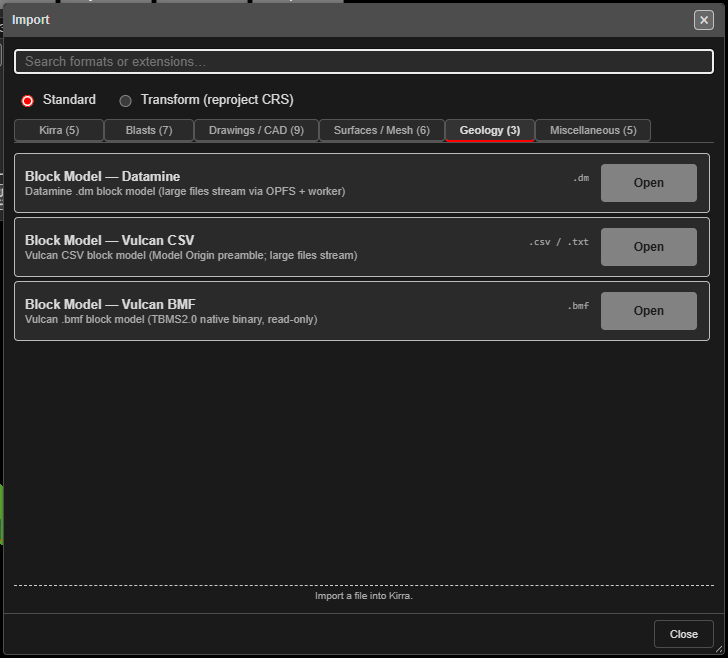
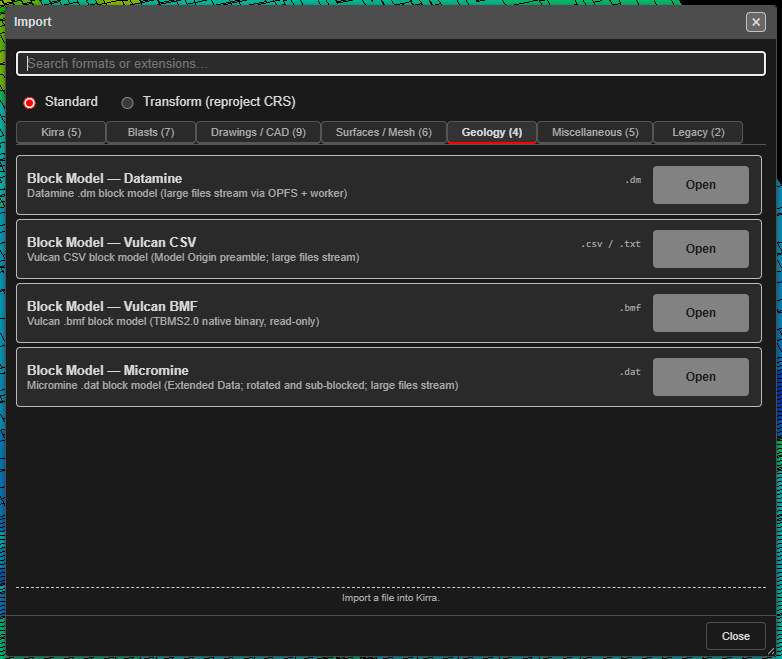
Docs: Block models - import, Load Block Model dialog, export and solids
New:
- Geology - Block Models section: three pages under block-models/
  - Importing Block Models: formats, Import dialog Geology tab, drag and
    drop with the CSV type chooser, large-file attribute selection
  - The Load Block Model Dialog: Display and Limits tabs, bench slices,
    footer buttons
  - Export a Section and Build Solids: CSV section export, one closed
    solid per class
- 9 new screenshots from the STGM sample coloured by DENSITY

Fixes:
- Supported formats: Micromine block model row; Vulcan CSV export noted
- Interface tour: Micromine on the Geology tab; Geology screenshot updated
- Analyse toolbar: block model screenshot placeholders filled, linked

Changed region(s): [[0.0, 0.0, 1.0, 1.0], [0.4231, 0.8815, 0.5742, 0.9422]]

diff --git a/block-models/load-block-model-dialog.md b/block-models/load-block-model-dialog.md
@@ -1,0 +1,87 @@
+# The Load Block Model Dialog
+
+The **Load Block Model** dialog controls how a block model is drawn: which attribute
+colours it, whether you see points or solid blocks, and which part of the model is
+shown. Every change applies straight away, so you can adjust it while watching the
+view. Block models are drawn in the 3D view, and in plan in the 2D view.
+
+The dialog opens when a model is imported. To open it again, click **Adjust Block Model
+Loaded** on the [Analyse toolbar](../analysis/analyse-toolbar.md#adjust-block-model-loaded).
+
+---
+
+## Display tab
+
+![Load Block Model — Display tab, coloured by DENSITY](../screenshots/BlockModelLoadDialog-Display.png)
+
+| Setting | What it does |
+|---|---|
+| **Variable (colour)** | The attribute that colours the blocks, for example DENSITY, FE or STRAT. |
+| **Mode** | **Centroids (points)** draws a point at each block centre: fast for a first look. **Blocks (solid)** draws every block at its true size, sub-blocks included. |
+| **Block style** | For **Blocks (solid)**: **Wire & Fill** (solid with black outlines), **Fill only**, or **Wire only** (outlines in the block colour). |
+| **Gradient** | The colour ramp for a numeric attribute: Turbo, Viridis, Parula, Cividis, Terrain or Spectrum (default). |
+| **Colour by** | **Gradient (above)** uses the ramp. **Schema (below)** uses a saved colour schema — your site's standard colours for each rock type or grade range. |
+| **Schema** | The schema to colour by. Schemas are made in **Adjust Block Model Schema Colour** — see the [Analyse toolbar](../analysis/analyse-toolbar.md#adjust-block-model-schema-colour). |
+| **Point size (px)** | Point size in **Centroids (points)** mode. |
+| **Transparency** | 1 is opaque. Lower values let you see into the model. |
+| **Bench slice** | Show only the blocks in one horizontal slice. |
+| **Bench RL** / **Bench thickness (m)** | The centre elevation and thickness of the slice. |
+| **Hover datatip** | When ticked, hovering over a block in the 3D view lists its attribute values. |
+| **Render cap (cells)** | The most blocks drawn at once, to protect the graphics card. If the count is capped the note at the bottom says so — raise the cap or tighten the filters. |
+
+The note at the bottom of the dialog counts the blocks being drawn, for example
+*Showing 206,369 of 206,369 cells*.
+
+### Bench slices
+
+A bench slice shows the geology at one blasting level. Set **Bench RL** to the bench
+elevation and **Bench thickness (m)** to the bench height.
+
+![A 4 m bench slice of the same model, coloured by DENSITY](../screenshots/BlockModelBenchSlice-Density.png)
+
+---
+
+## Limits tab
+
+![Load Block Model — Limits tab](../screenshots/BlockModelLoadDialog-Limits.png)
+
+Limits hide blocks without changing the model. Clear a limit and the blocks come back.
+
+### Cut-offs and classes
+
+| Setting | What it does |
+|---|---|
+| **Cut-off: ignore below** / **Cut-off: ignore above** | For a numeric attribute, hide blocks below or above a value. Leave a box empty for no limit. The hint shows the attribute's range. |
+| **Categories** | For a category attribute such as STRAT, tick the categories to show. |
+| **Discrete intervals** | For a whole-number attribute such as a stratigraphy code, tick the values to show. **Select all** ticks them all. |
+
+### Limit display to
+
+| Option | Shows |
+|---|---|
+| **None** | The whole model. |
+| **Box range (min/max X Y Z)** | Blocks inside the box set by **Limit min X** to **Limit max Z**. |
+| **Below a surface** | Blocks below the surface chosen in **Limit surface**, for example below the topography. |
+| **Above a surface** | Blocks above the chosen surface. |
+| **Inside a closed solid** | Blocks inside a closed solid, for example a blast solid or a pit shell. |
+
+**Limit surface** lists the loaded surfaces. For **Inside a closed solid** it lists
+closed solids only; if none is loaded, Kirra says so and leaves the limit off. A solid
+made while the dialog is open appears in the list straight away. To make a blast solid,
+see [Extrude KAD to Solid](../kad/advanced-tools.md#extrude-kad-to-solid).
+
+---
+
+## Footer buttons
+
+| Button | What it does |
+|---|---|
+| **Solids** | Builds closed solids from the blocks currently shown — see [Export a Section and Build Solids](export-and-solids.md#build-solids). |
+| **Export** | Saves the blocks currently shown as a block model CSV — see [Export a Section and Build Solids](export-and-solids.md#export-a-section-as-csv). |
+| **Remove** | Removes the block model from Kirra and frees its memory. |
+| **Done** | Closes the dialog. The model stays loaded, drawn as you left it. |
+
+---
+
+See also: [Importing Block Models](importing-block-models.md) ·
+[Export a Section and Build Solids](export-and-solids.md)

diff --git a/block-models/importing-block-models.md b/block-models/importing-block-models.md
@@ -1,0 +1,90 @@
+# Importing Block Models
+
+A block model is a 3D grid of blocks, each carrying the geology at that location: rock
+type, stratigraphy, grades, density, hardness and so on. Kirra loads block models from
+the major mine-planning packages so you can see the geology you are blasting into, in
+both the 2D and 3D views.
+
+![A Vulcan block model coloured by DENSITY, sub-blocked along the geological contacts](../screenshots/BlockModel3D-Density.png)
+
+---
+
+## Supported formats
+
+| Format | Extensions | Notes |
+|---|---|---|
+| **Block Model — Datamine** | `.dm` | Datamine block model. Large files are streamed. |
+| **Block Model — Vulcan CSV** | `.csv` / `.txt` | Vulcan CSV export, with its **Model Origin / Cell Sizes / Number of Cells** preamble. Large files are streamed. |
+| **Block Model — Vulcan BMF** | `.bmf` | Vulcan's native block model, regularised or sub-blocked. Read only. |
+| **Block Model — Micromine** | `.dat` | Micromine Extended Data block model, including rotated and sub-blocked models. Large files are streamed. |
+
+Sub-blocked models load with every sub-block at its own size. Rotated models (Vulcan
+bearing, Micromine rotation) draw their blocks turned to match.
+
+---
+
+## How to import
+
+**From the Import dialog**
+
+1. Open the **Import** dialog and choose the **Geology** tab.
+2. Click **Open** on the row for your format and pick the file.
+
+![Import dialog — Geology tab](../screenshots/filemanager-geology.png)
+
+**By drag and drop**
+
+Drop the file onto the canvas. `.dm`, `.bmf` and `.dat` files are recognised by their
+content. A `.csv` or `.txt` file could hold blast holes, drawing geometry or a block
+model, so Kirra always asks:
+
+![The Unrecognised file format dialog — click Block for a Vulcan block model CSV](../screenshots/UnrecognisedCSVBlockChoice.png)
+
+Click **Block** for a Vulcan block model CSV.
+
+---
+
+## Large models: choose what to load
+
+Block models are often hundreds of megabytes. For a file larger than about 25 MB,
+Kirra asks what to load before reading it:
+
+![Load Block Model — select attributes](../screenshots/BlockModelSelectAttributesDialog.png)
+
+| Setting | What it does |
+|---|---|
+| **Block Model** | The file, with an estimate of its cell count and size. |
+| **Empty cells — Ignore where … equals …** | Cells whose chosen attribute equals the value are not loaded at all, for example STRAT = −99 or FE = 0. The memory saving is in proportion to the cells dropped. |
+| **Attributes** | Tick only the attributes you need. **All Attributes** ticks them all. Each block's position and size always load. |
+| **Max cells (0 = all)** | Loads only the first N cells. Useful for a quick look at a very large model. |
+| **Memory** | The estimated memory the selection needs. It turns red, with *Exceeds free heap*, when the selection will not fit — untick attributes or set a cell cap. |
+
+Click **Load**. The model is decoded in the background with a progress bar.
+
+---
+
+## After the import
+
+- The model appears in the **Data Explorer** under **Geology**, showing its cell
+  count, attribute count and the attribute it is coloured by. The eye icon shows and
+  hides it.
+- The **Load Block Model** dialog opens so you can choose how it is drawn — see
+  [The Load Block Model Dialog](load-block-model-dialog.md).
+- Models of more than a million blocks open on a single bench slice so the import
+  stays quick. Untick **Bench slice** to see the whole model.
+
+---
+
+## Troubleshooting
+
+| Symptom | Cause | Fix |
+|---|---|---|
+| *Exceeds free heap* in the select dialog | The ticked attributes will not fit in browser memory | Untick attributes, use **Ignore where**, or set **Max cells** |
+| A dropped `.dat` file is offered as a Surpac string | The file is not a Micromine Extended Data file | Check it is a block model export, not a string file |
+| *Block Model Import Failed* | The file is damaged, or is a variant Kirra does not read yet | Send the error text to support with a description of where the file came from |
+
+---
+
+See also: [The Load Block Model Dialog](load-block-model-dialog.md) ·
+[Export a Section and Build Solids](export-and-solids.md) ·
+[Supported File Formats](../reference/supported-formats.md)

diff --git a/block-models/export-and-solids.md b/block-models/export-and-solids.md
@@ -1,0 +1,88 @@
+# Export a Section and Build Solids
+
+Once a block model is limited to the part you care about — a blast, a bench, the blocks
+inside a design solid — you can take that part out of Kirra in two ways:
+
+- **Export** saves the blocks as a block model CSV.
+- **Solids** turns them into closed solids, one per rock type or grade class.
+
+Both buttons are in the footer of the [Load Block Model dialog](load-block-model-dialog.md),
+and both use exactly the blocks the dialog is showing.
+
+---
+
+## Which blocks are used
+
+Both buttons use the blocks that pass everything on the **Limits** tab and the
+**Bench slice** on the **Display** tab: cut-offs, ticked categories or values, and the
+**Limit display to** box, surface or solid.
+
+The **Render cap (cells)** is not a filter. It only limits how many blocks are drawn,
+so a capped display still exports, or builds solids from, every block that passes.
+
+---
+
+## Export a section as CSV
+
+1. Set the limits so the dialog shows the blocks you want.
+2. Click **Export**.
+3. Choose where to save the file.
+
+The file is a Vulcan-style block model CSV, which Kirra reads straight back (see
+[Importing Block Models](importing-block-models.md)). It has no `IJK` column unless the
+original model had one.
+
+| Detail | Behaviour |
+|---|---|
+| File name | The model's name, with `_section` added when the model is limited, for example `STGM_section.csv`. |
+| Header | The original model's origin, cell sizes and number of cells, so each block keeps its place in the parent grid. |
+| Columns | Block centre (XC, YC, ZC), block size (XINC, YINC, ZINC), then every loaded attribute. |
+| Categories | Written as their names, for example `BIF`, not as codes. |
+| Empty values | Written as empty fields. |
+| Rotated models | CSV has no field for rotation. Block centres stay exact, but the blocks draw unrotated when the file is loaded again. Kirra tells you when this applies. |
+
+---
+
+## Build solids
+
+**Solids** builds closed solids from the shown blocks. What you get depends on the
+**Variable (colour)** on the **Display** tab:
+
+| Attribute | Result |
+|---|---|
+| A category, for example STRAT | One solid per category |
+| A whole-number code, for example a stratigraphy number | One solid per value |
+| A continuous value, for example DENSITY or FE | One solid of all the blocks shown — for example, set **Cut-off: ignore below** to 58 on FE for an ore shell |
+
+1. Choose the **Variable (colour)** and set the limits.
+2. Click **Solids**. Kirra says how many solids it will build and from how many blocks:
+
+   ![Block Model Solids confirmation](../screenshots/BlockModelSolidsConfirm.png)
+
+3. Click **Build**.
+
+The solids are added to **Surfaces** on a layer named **Block Model Solids**, each in the
+colour its blocks are drawn in. They are saved with the project like any other surface,
+and one **Undo** removes them all.
+
+### About the solids
+
+- **Closed.** Each solid is watertight: it reads as **Closed** in its properties, shows
+  its volume, and can be used as an **Inside a closed solid** limit.
+- **Stepped.** The solids follow the block edges exactly. They are not smoothed.
+- **Exact volume.** A solid's volume equals the total volume of its blocks, sub-blocks
+  included.
+- **Shared edges.** Where two blocks of the same class touch only along an edge, that
+  edge belongs to four faces rather than two. Mesh checks report these as
+  non-manifold edges; the solid is still closed.
+- **Rotated models** give rotated solids that match the drawn blocks.
+- **Very large selections** are built on a coarser grid so they fit in memory. Kirra
+  tells you when this happens and the grid size it used; limit the model further for
+  exact solids.
+- More than 256 classes is refused. Untick categories, or limit the model first.
+
+---
+
+See also: [Importing Block Models](importing-block-models.md) ·
+[The Load Block Model Dialog](load-block-model-dialog.md) ·
+[Trimesh Boolean & Solid Boolean](../surfaces/boolean-csg.md)

diff --git a/analysis/analyse-toolbar.md b/analysis/analyse-toolbar.md
@@ -210,7 +210,9 @@ See [Time Window Dialog](time-window.md) for the full per-tab reference.
 
 Adjusts the display of the geological **block model** already loaded into the project — the gridded model of ore/waste and rock attributes used to inform blast design and analysis. Block models are loaded through the **Import** dialog (**Geology** tab) or by dropping the file on the canvas; this button does not load one, and tells you if none is loaded.
 
-> *[SCREENSHOT NEEDED: Load Block Model dialog]*
+![Load Block Model — Display tab](../screenshots/BlockModelLoadDialog-Display.png)
+
+Full reference: [The Load Block Model Dialog](../block-models/load-block-model-dialog.md).
 
 ### How to use
 
@@ -218,6 +220,7 @@ Adjusts the display of the geological **block model** already loaded into the pr
 2. On the **Display** tab, choose the **Variable (colour)**, **Mode** (**Centroids (points)** or **Blocks (solid)**), **Block style**, **Gradient** or schema colouring (**Colour by**), **Point size (px)**, **Transparency**, an optional **Bench slice** (RL and thickness), cut-offs, and the **Hover datatip**
 3. On the **Limits** tab, optionally **Limit display to** a box range, above or below a surface, or inside a closed solid
 4. Changes apply live — the dialog shows how many cells are displayed out of the total. Click **Done** to close
+5. **Solids** builds closed solids from the shown blocks, and **Export** saves them as a block model CSV — see [Export a Section and Build Solids](../block-models/export-and-solids.md). **Remove** unloads the model
 
 ---
 
@@ -225,7 +228,7 @@ Adjusts the display of the geological **block model** already loaded into the pr
 
 Manages named colour **schemas** — site or project colour standards for block-model attributes. A schema holds one colour definition per attribute (rock type, grade, domain, etc.).
 
-> *[SCREENSHOT NEEDED: Block Model Schema Colours dialog]*
+![Block Model Schema Colours dialog](../screenshots/BlockModelSchemaColoursDialog.png)
 
 ### How to use
 

diff --git a/getting-started/interface-tour.md b/getting-started/interface-tour.md
@@ -93,7 +93,7 @@ The dialog is tabbed by file family. Each tab shows how many formats it holds, e
 | **Blasts** | Custom CSV, CBLAST, Orica ShotPlus, Davey BPD, DetNet ViewShot, DetNet DigiShot / ParVS3, Paradigm Terra |
 | **Drawings / CAD** | Geometry CSV, DXF, DWG (experimental), Vulcan ARCH_D, Vulcan Design Database, Surpac, Micromine STR, Deswik DUF, 12d Archive |
 | **Surfaces / Mesh** | GeoTIFF / Image, OBJ / GLTF, Point Cloud, LAS Point Cloud, Vulcan .00t Triangulation, Datamine Surface |
-| **Geology** | Block Model — Datamine, Block Model — Vulcan CSV, Block Model — Vulcan BMF |
+| **Geology** | Block Model — Datamine, Block Model — Vulcan CSV, Block Model — Vulcan BMF, Block Model — Micromine |
 | **Miscellaneous** | Borehole Telemetry, Epiroc Surface Manager, Wenco NAV, KML / KMZ, ESRI Shapefile |
 | **Legacy** | Datavis DBS, ShotPlan 3 |
 
@@ -168,6 +168,9 @@ The dialog is tabbed by file family. Each tab shows how many formats it holds, e
 | **Block Model — Datamine** | `.dm` | Datamine block model. Large files are streamed |
 | **Block Model — Vulcan CSV** | `.csv` / `.txt` | Vulcan CSV block model. Large files are streamed |
 | **Block Model — Vulcan BMF** | `.bmf` | Vulcan `.bmf` block model (read only) |
+| **Block Model — Micromine** | `.dat` | Micromine block model, including rotated and sub-blocked models. Large files are streamed |
+
+See [Importing Block Models](../block-models/importing-block-models.md).
 
 ### Miscellaneous tab
 

diff --git a/reference/supported-formats.md b/reference/supported-formats.md
@@ -165,8 +165,14 @@ See: [Electronic Timing Constructs](../blast-design/electronic-timing-constructs
 | Format | Extensions | Import | Export | Notes |
 |---|---|:---:|:---:|---|
 | Datamine block model | `.dm` | Yes | — | Large files are streamed. Export shows as **Coming soon**. |
-| Vulcan CSV block model | `.csv`, `.txt` | Yes | — | Vulcan CSV with its Model Origin preamble. Large files are streamed. |
-| Vulcan BMF block model | `.bmf` | Yes (read-only) | — | Vulcan native block model. |
+| Vulcan CSV block model | `.csv`, `.txt` | Yes | Yes | Vulcan CSV with its Model Origin preamble. Large files are streamed. Exported from the Load Block Model dialog — see below. |
+| Vulcan BMF block model | `.bmf` | Yes (read-only) | — | Vulcan native block model, regularised or sub-blocked. |
+| Micromine block model | `.dat` | Yes | — | Micromine Extended Data block model, including rotated and sub-blocked models. Large files are streamed. |
+
+Any loaded block model — whatever its source format — can be saved as a Vulcan CSV with
+the **Export** button in the Load Block Model dialog, either whole or limited to a section.
+The Export dialog's **Geology** tab still shows **Coming soon**. See
+[Export a Section and Build Solids](../block-models/export-and-solids.md).
 
 ---
 

diff --git a/index.md b/index.md
@@ -77,12 +77,18 @@ Use this block to judge whether the docs may be ahead of or behind your installe
 - [Compare Surfaces](surfaces/compare-surfaces.md) — design vs survey deviation heat map
 - [Surface Contours](surfaces/contours.md)
 
+### Geology — Block Models
+- [Importing Block Models](block-models/importing-block-models.md) — Datamine, Vulcan CSV and BMF, Micromine *(new)*
+- [The Load Block Model Dialog](block-models/load-block-model-dialog.md) — colour, bench slices, cut-offs and limits *(new)*
+- [Export a Section and Build Solids](block-models/export-and-solids.md) — CSV sections and one closed solid per class *(new)*
+
 ### Importing Data
 - [CSV Formats](importing/csv-formats.md)
 - [DXF Import](importing/dxf.md)
 - [Surpac DTM / STR](importing/surpac-dtm-str.md)
 - [OBJ / PLY / GLTF / GLB](importing/3d-mesh.md)
 - [Other Formats (IREDES, KML, LAS, Shapefile)](importing/other-formats.md)
+- [Block Models](block-models/importing-block-models.md)
 
 ### Exporting Data
 - [CSV Export](exporting/csv-export.md)
